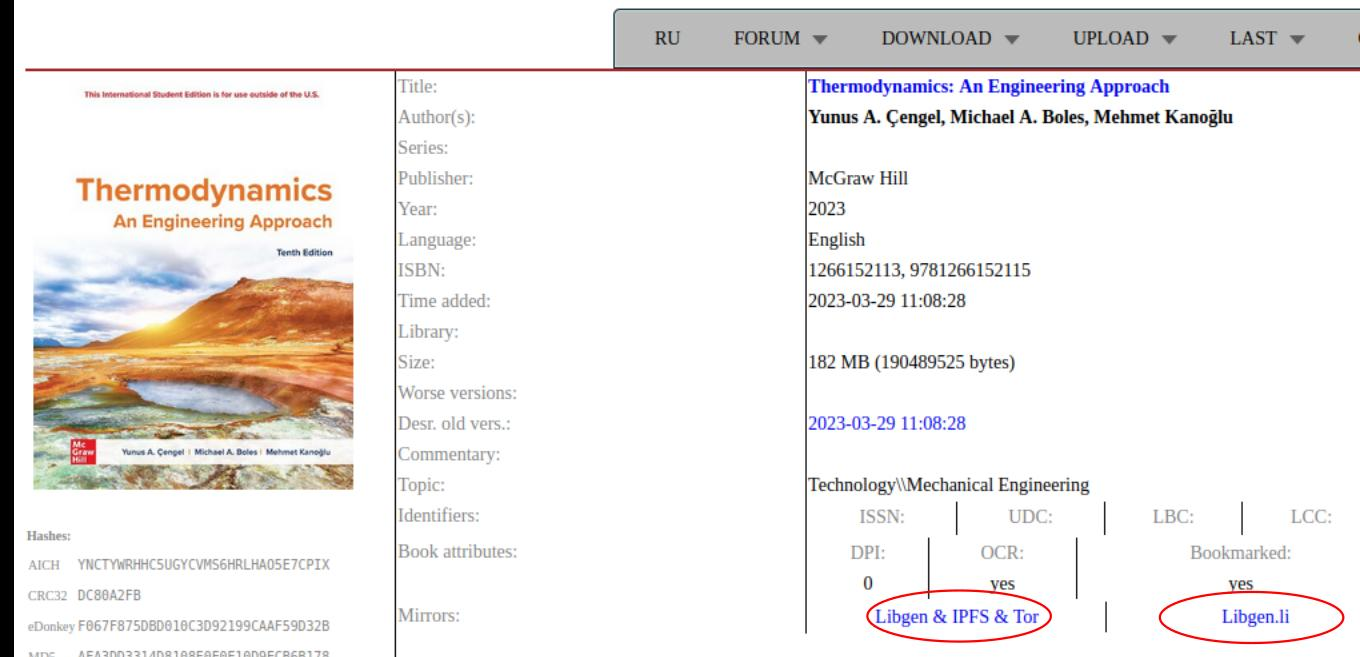
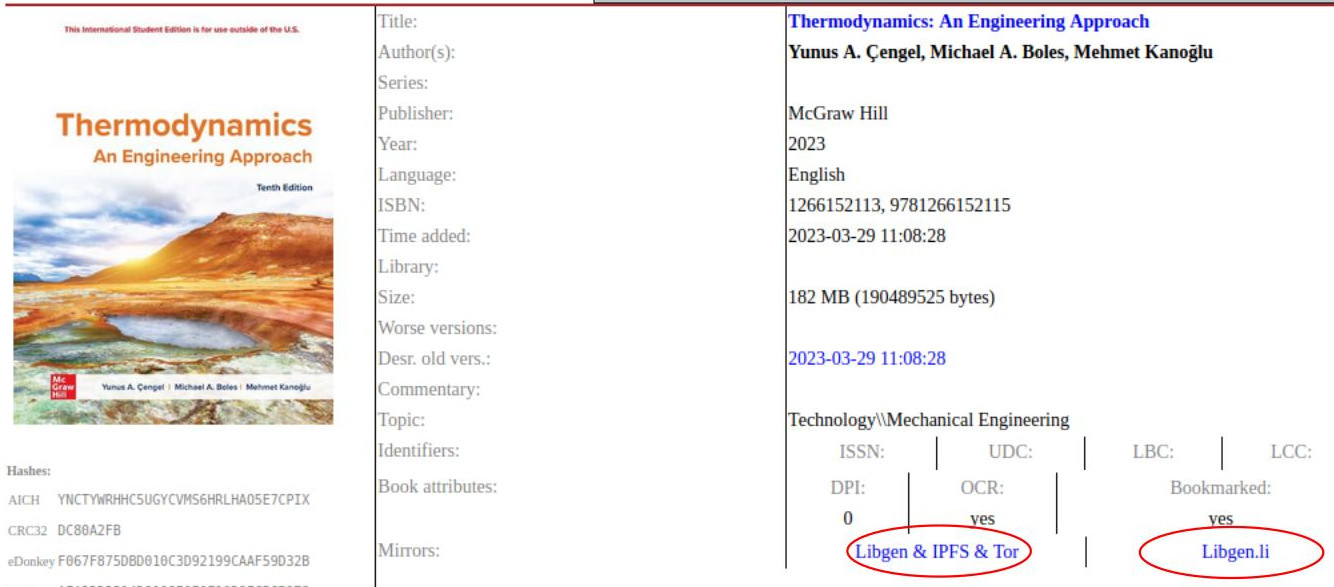
>

diff --git a/pages/textbooks.md b/pages/textbooks.md
@@ -8,7 +8,7 @@ folder: mydoc
 
 Visit [Library Genesis](https://www.libgen.is)
 
-<img src="images/libgen1.jpg" alt="libgen1" style="width:70%;height:auto;padding:0px;border:1px solid black">
+<img src="images/libgen1.jpg" alt="libgen1" style="width:40%;height:auto;padding:0px;border:1px solid black">
 
 <span style="color:red">1. Type a word in the name of the book (thermodynamics as an example) and one of the authors (cengel as an example) in the search box and then click search.</span>
 
